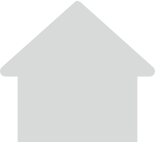
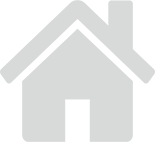
updated 5.8 English

diff --git a/5 Evening/5.8/css/style.css b/5 Evening/5.8/css/style.css
@@ -263,7 +263,7 @@ html body .ui-group-theme-a a:visited {
 .buttons {
     position: absolute;
     top: 20px;
-    right: 70px;
+    right: 20px;
     font-size: 3em;
 	z-index: 999;
 	opacity: 0.6;
@@ -384,8 +384,8 @@ html body .ui-group-theme-a a:visited {
 }
 
 #header h1 {
-	margin-top: 100px;
-	line-height: 15px;
+	margin-top: 90px!important;
+	line-height: 42px;
 }
 
 .single #header h1 ,
@@ -440,7 +440,7 @@ html body .ui-group-theme-a a:visited {
 .inside h1 {
 	font-size: 2.6em;
 	margin-top: 60px;
-	line-height: 15px;
+	line-height: 32px;
 }
 
 .inside h2 {
@@ -596,28 +596,13 @@ html body .ui-group-theme-a a:visited {
 #menu {
     position: absolute;
     z-index: 1000;
-    bottom: 50px;
+    bottom: 45px;
     right: 0;
     left: 0;
-    width: 270px;
+    width: auto;
     margin: 0 auto;
     opacity: 0.7;
-}
-
-#menu.two {
-	width: 90px;
-}
-
-#menu.three {
-	width: 135px;
-}
-
-#menu.four {
-	width: 180px;
-}
-
-#menu.five {
-	width: 225px;
+	text-align: center;
 }
 
 #menu ul {
@@ -625,8 +610,7 @@ html body .ui-group-theme-a a:visited {
 }
 
 #menu ul li {
-	display: inline;
-	float: left;
+	display: inline-block;
 	padding: 0 15px;
 }
 
@@ -635,12 +619,13 @@ html body .ui-group-theme-a a:visited {
 	height: 15px;
 	border-radius: 100%;
 	background-color: #000000;
-	box-shadow: 0px 0px 3px rgba(216,218,217,0.5);
+	box-shadow: 0 0 10px 1px rgba(216,218,217,0.8);
 }
 
 #menu ul li.active div {
-	background-color: #D8DAD9;
-	box-shadow: 0px 0px 3px rgba(0,0,0,0.5);
+    background-color: #D8DAD9;
+    border: 2px solid rgba(0,0,0,0.4);
+    margin-bottom: -2px;
 }
 
 /* full-page images */
@@ -685,7 +670,7 @@ html body .ui-group-theme-a a:visited {
 .grid .top > .section {
     display: block;
     float: left;
-    margin: 1% 0 3.4% 0.8%;
+    margin: 0.4% 0 3.4% 0.8%;
 	overflow: hidden;
 }
 
@@ -743,26 +728,6 @@ div.ui-overlay-a, div.ui-page-theme-a {
 	text-shadow: none;
 }
 
-/*
-* === panzoom ===
-*/
-
-.panzoom {
-	z-index: 50;
-	position: relative;
-}
-
-.panzoom .pinch {
-    position: absolute;
-    bottom: 20px;
-    right: 20px;
-    z-index: 999;
-    background: url(pinch-zoom.png) no-repeat 0 0;
-    height: 108px;
-    width: 150px;
-    opacity: 0.5;
-}
-
-.panzoom .pinch.dark {
-	background: url(pinch-zoom-dark.png) no-repeat 0 0;
+.ui-page {
+	-webkit-backface-visibility: hidden;
 }

diff --git a/5 Evening/5.8/slider1.html b/5 Evening/5.8/slider1.html
@@ -143,7 +143,7 @@
 				<div class="buttons centre">
 					<ul>
 						<li><a data-ajax="false" href="index.html"><img src="img/home-grey.png" width="70" height="64" /></a></li>
-						<li><a data-ajax="false" href="dress2.html"><img src="img/inner-grey.png" width="70" height="64" /></a></li>
+						<li><a data-ajax="false" href="dress1.html"><img src="img/inner-grey.png" width="70" height="64" /></a></li>
 			
 					</ul>
 				</div>
@@ -175,7 +175,7 @@
 				<div class="buttons centre">
 					<ul>
 						<li><a data-ajax="false" href="index.html"><img src="img/home-grey.png" width="70" height="64" /></a></li>
-						<li><a data-ajax="false" href="dress2.html"><img src="img/inner-grey.png" width="70" height="64" /></a></li>
+						<li><a data-ajax="false" href="dress1.html"><img src="img/inner-grey.png" width="70" height="64" /></a></li>
 			
 					</ul>
 				</div>
@@ -235,7 +235,7 @@
 						<div class="buttons centre">
 							<ul>
 								<li><a data-ajax="false" href="index.html"><img src="img/home-grey.png" width="70" height="64" /></a></li>
-								<li><a data-ajax="false" href="dress2.html"><img src="img/inner-grey.png" width="70" height="64" /></a></li>
+								<li><a data-ajax="false" href="dress1.html"><img src="img/inner-grey.png" width="70" height="64" /></a></li>
 							</ul>
 						</div>
 			

diff --git a/5 Evening/5.8/index.html b/5 Evening/5.8/index.html
@@ -67,9 +67,10 @@
 				<div class="top right black"></div>
 			</div>
 						
-			<div class="buttons">
+			<div class="buttons centre">
 				<ul>
-					<li><a data-ajax="false" href="index-fr.html">FR</a></li>
+					<li><a data-ajax="false" title="Select another dress" href="index.html"><img src="img/home-grey.png" width="80" height="80" /></a></li>
+					<li><a data-ajax="false" title="Français" href="index-fr.html">FR</a></li>
 				</ul>
 			</div>
 			
